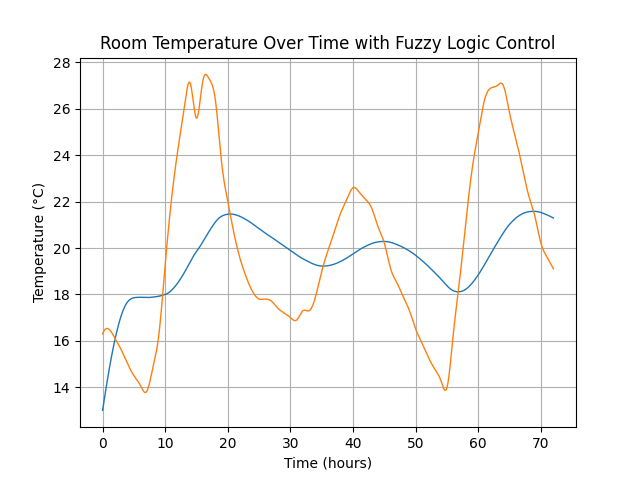
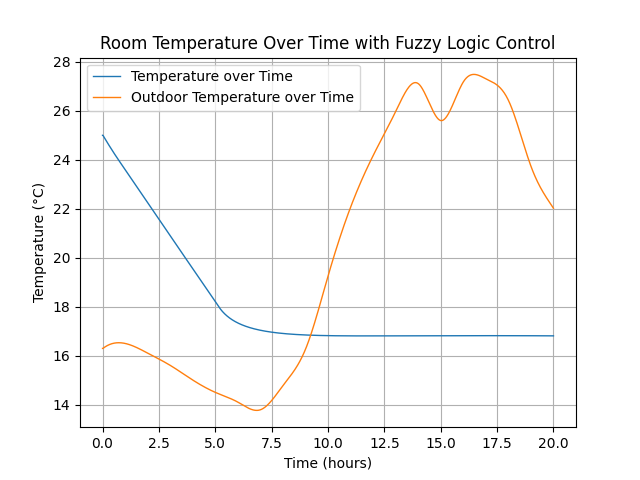
calculate cubic splines once and pass to the environment simulator

diff --git a/json_parser.py b/json_parser.py
@@ -3,40 +3,44 @@ import numpy as np
 from scipy.interpolate import CubicSpline
 from matplotlib import pyplot as plt
 
-##Read JSON file
-with open('output.json', 'r') as file:
-    data = json.load(file)
+def json_to_splines():
+    ##Read JSON file
+    with open('output.json', 'r') as file:
+        data = json.load(file)
 
-temps = []
-humidities = []
-#Command to get JSON file from weatherapi.com
-# curl "http://api.weatherapi.com/v1/forecast.json?key=**REDACTED**&q=31207&days=14&aqi=yes&alerts=yes" -o output.json
-#extract forecasts
-#14 days, 24 Hrs each days
-forecasts = data['forecast']['forecastday']
-for index_day, day in enumerate(forecasts):
-    for index_hr, hour in enumerate(day['hour']):
-        temps.append(hour['temp_c'])
-        humidities.append(hour['humidity'])
+    temps = []
+    humidities = []
+    #Command to get JSON file from weatherapi.com
+    # curl "http://api.weatherapi.com/v1/forecast.json?key=**REDACTED**&q=31207&days=14&aqi=yes&alerts=yes" -o output.json
+    #extract forecasts
+    #14 days, 24 Hrs each days
+    forecasts = data['forecast']['forecastday']
+    for day in forecasts:
+        for hour in day['hour']:
+            temps.append(hour['temp_c'])
+            humidities.append(hour['humidity'])
 
-#percent_noise = 1 # Percent noise to add
-#Convert to numpy arrays
-#temps = np.array(temps) * np.random.uniform( 1 - percent_noise / 100, 1 + percent_noise / 100, size=len(temps))
-#humidities = np.array(humidities) * np.random.uniform(1 - percent_noise / 100, 1 + percent_noise / 100, size=len(humidities))
+    #percent_noise = 1 # Percent noise to add
+    #Convert to numpy arrays
+    #temps = np.array(temps) * np.random.uniform( 1 - percent_noise / 100, 1 + percent_noise / 100, size=len(temps))
+    #humidities = np.array(humidities) * np.random.uniform(1 - percent_noise / 100, 1 + percent_noise / 100, size=len(humidities))
 
-#Cubic Spline Interpolation
-x = np.arange(0, 24*14, 1)
-outdoor_temp_by_hour = CubicSpline(x, temps)
-outdoor_humidity_by_hour = CubicSpline(x, humidities)
+    #Cubic Spline Interpolation
+    x = np.arange(0, 24*14, 1)
+    return { "temperature": CubicSpline(x, temps), "humidity": CubicSpline(x, humidities) }
 
 if __name__ == "__main__":
+    splines = json_to_splines()
+    outdoor_temp_by_hour = splines['temperature']
+    outdoor_humidity_by_hour = splines['humidity']
     print( f"Start outdoor temp: {outdoor_temp_by_hour(0)}" )
     print( f"End outdoor temp: {outdoor_temp_by_hour(3)}" )
     print( f"Start outdoor hum: {outdoor_humidity_by_hour(0)}" )
     print( f"End outdoor hum: {outdoor_humidity_by_hour(3)}" )
     x_smooth = np.linspace(0, 24*14-1, 1000)
-
-    plt.scatter(x, temps, label='temp data', color='red')
+    x = np.arange(0, 24*14, 1)
+    temps = [outdoor_temp_by_hour(xi) for xi in x]
+    plt.scatter(x, temps, label='temperature data', color='red')
 
     plt.plot(x, outdoor_temp_by_hour(x), label='Cubic Spline Temp')
 

diff --git a/firstRun.py b/firstRun.py
@@ -1,11 +1,10 @@
-import os
 import skfuzzy.control as ctrl
-import numpy as np
 import matplotlib.pyplot as plt
 from fuzzy_rules import rules
-import mins_maxs as mm
 from environment_simulator import calc_new_temp_and_hum
-import random
+from json_parser import json_to_splines
+
+splines = json_to_splines()
 
 controller = ctrl.ControlSystem(rules)
 simulator = ctrl.ControlSystemSimulation(controller)
@@ -23,14 +22,17 @@ outdoor_temps = [16.3]
 initial_temp = float(input("Enter the initial room temperature (in °C): "))
 initial_hum = float(input("Enter the initial room humidity (in %): "))
 initial_delta_temp = 0  # Initial change in temperature
+initial_delta_hum = 0  # Initial change in humidity
 
 cur_temp = initial_temp
 cur_hum = initial_hum
 cur_delta_temp = initial_delta_temp
+cur_delta_hum = initial_delta_hum
 
 temps = [initial_temp]
 hums = [initial_hum]
 delta_temps = [initial_delta_temp]
+delta_hums = [initial_delta_hum]
 times = [0]
 #336 hours = 14 days
 
@@ -43,18 +45,20 @@ while cur_time < max_time:
     simulator.input['temperature'] = cur_temp
     simulator.input['humidity'] = cur_hum
     simulator.input['delta_temperature'] = cur_delta_temp
+    simulator.input['delta_humidity'] = cur_delta_hum
 
     # Compute the control action
     simulator.compute()
 
     # Get the output values
     heating_power = simulator.output['ac_heater_power']
+    #humidifier_power = simulator.output['humidifier_power']
 
-    new_data = calc_new_temp_and_hum(cur_temp, cur_hum, heating_power, cur_time, seconds, max_ac_power, wall_heat_loss_factor)
+    new_data = calc_new_temp_and_hum(cur_temp, cur_hum, heating_power, cur_time, seconds, splines, max_ac_power, wall_heat_loss_factor)
     new_temp = new_data['temperature']
     new_hum = new_data['humidity']
 
-    print(f"Time: {cur_time:.2f} hrs, Temp: {cur_temp:.2f} C, Humidity: {cur_hum:.2f} %, Delta Temp: {cur_delta_temp:.2f} C, Heating Power: {heating_power:.2f} % -> New Temp: {new_temp:.2f} C, New Humidity: {new_hum:.2f} %, Outdoor Temp: {new_data['outdoor_temperature']:.2f} C")
+    print(f"Time: {cur_time:.6f} hrs, Temp: {cur_temp:.6f} C, Humidity: {cur_hum:.6f} %, Delta Temp: {cur_delta_temp:.6f} C, Heating Power: {heating_power:.6f} % -> New Temp: {new_temp:.6f} C, New Humidity: {new_hum:.6f} %, Outdoor Temp: {new_data['outdoor_temperature']:.6f} C")
     # Store the results
     temps.append(cur_temp)
     hums.append(cur_hum)
@@ -74,6 +78,7 @@ plt.xlabel('Time (hours)')
 plt.ylabel('Temperature (°C)')
 plt.title('Room Temperature Over Time with Fuzzy Logic Control')
 plt.grid()
+plt.legend()
 plt.savefig('temperature_over_time.png')
 plt.clf()
 
@@ -84,6 +89,7 @@ plt.xlabel('Time (hours)')
 plt.ylabel('Delta Temperature (°C)')
 plt.title('Change in Room Temperature Over Time with Fuzzy Logic Control')
 plt.grid()
+plt.legend()
 plt.savefig('delta_temperature_over_time.png')
 
 #print( list( map( float, temps) ) )

diff --git a/environment_simulator.py b/environment_simulator.py
@@ -1,4 +1,3 @@
-from json_parser import outdoor_temp_by_hour
 from math import exp
 
 # Square floor 20 meters, 3 meters tall
@@ -9,15 +8,12 @@ air_density = 1.225 # kg/m^3 at sea level
 air_mass = room_volume * air_density
 
 def calc_satured_vapor_pressure(temp_c):
-    """Calculate the saturated vapor pressure of water at a given temperature in Celsius."""
     if temp_c >= 0:
         return 6.112 * exp((17.67 * temp_c) / (temp_c + 243.5))  # in hPa
     else:
         return 6.112 * exp((22.46 * temp_c) / (temp_c + 272.62))  # in hPa
     
 def specific_heat_by_humidity(humidity):
-    """Calculate the specific heat of air at a given humidity (%) and temperature (Celsius)."""
-
     cp_dry_air = 1005  # J/(kg·K)
     cp_water_vapor = 1860  # J/(kg·K)
     
@@ -31,8 +27,7 @@ def celsius_to_kelvin(temp_c):
 def kelvin_to_celsius(temp_k):
     return temp_k - 273.15
 
-def calc_new_temp_and_hum(temp, humidity, ac_heater_control, hour, step_seconds, ac_heater_max_power=1000, wall_heat_loss_factor=1):
-    """Calculate the new temperature after applying power for a given time step."""
+def calc_new_temp_and_hum(temp, humidity, ac_heater_control, hour, step_seconds, splines, ac_heater_max_power=1000, wall_heat_loss_factor=1):
 
     #ac_heater_max_power = 1000  # in Watts
 
@@ -45,7 +40,7 @@ def calc_new_temp_and_hum(temp, humidity, ac_heater_control, hour, step_seconds,
     thermal_conductivity = 0.002  # W/(m·K) Concrete
     wall_area = 20 * 3 * 4  # m^2 (4 walls, 3m tall, 20m wide)
     wall_thickness = 0.3 # m
-    outdoor_temp = outdoor_temp_by_hour(hour)  # in Celsius
+    outdoor_temp = splines["temperature"](hour)  # in Celsius
     temp_difference = temp - outdoor_temp # in Celsius
 
     heat_loss = wall_heat_loss_factor * (thermal_conductivity * wall_area * temp_difference) / wall_thickness  # in Celsius
@@ -55,6 +50,7 @@ def calc_new_temp_and_hum(temp, humidity, ac_heater_control, hour, step_seconds,
     # 5 second step
     temp_change = (sum_power * step_seconds) / (air_mass * specific_heat)  # in Kelvin
 
+    humidity_change = humidity
     return {"temperature": temp + temp_change, "humidity": humidity, "outdoor_temperature": outdoor_temp}
 
 #print(f"Step hours: {step_hours}")
